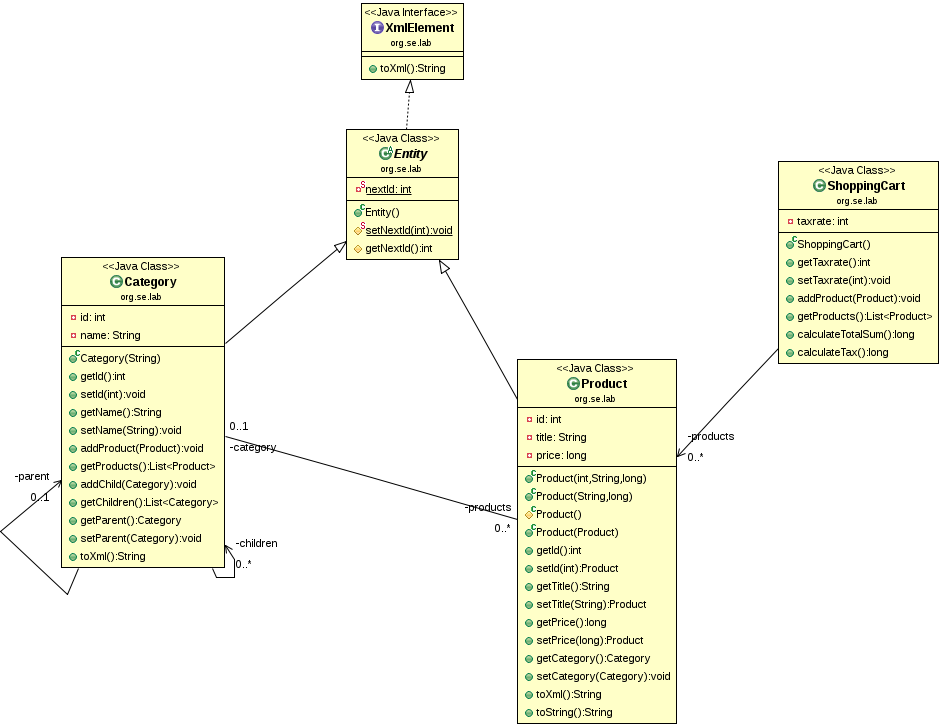
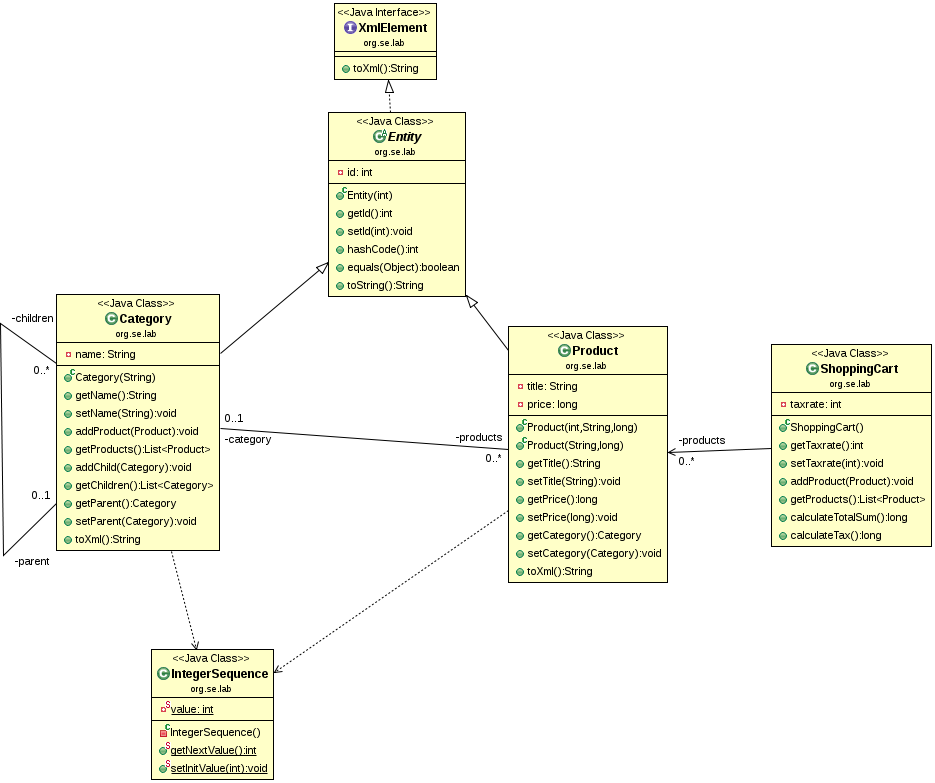
Changed test cases and the class diagram to be in sync with the model solution.

diff --git a/software-design/1_UML/UML2Java-ShoppingCart-Exercise/src/test/java/org/se/lab/ProductTest.java b/software-design/1_UML/UML2Java-ShoppingCart-Exercise/src/test/java/org/se/lab/ProductTest.java
@@ -5,8 +5,6 @@ import static org.junit.Assert.assertEquals;
 
 import org.junit.Before;
 import org.junit.Test;
-import org.se.lab.Entity;
-import org.se.lab.Product;
 
 public class ProductTest
 {
@@ -20,18 +18,19 @@ public class ProductTest
 	{
 		p = new Product(3,"Java Programming", 3550);
 
-		Entity.setNextId(1);
+		IntegerSequence.setInitValue(1);
 	}
 
+	
 	@Test
 	public void testProduct()
 	{
 		out.println("@Test testProduct");
 		String s = p.toString();
-		assertEquals("3,Java Programming,35.5", s);
+		assertEquals("<product id=\"3\" title=\"Java Programming\" price=\"35.5\"/>", s);
 	}
 
-	@Test(expected = NullPointerException.class)
+	@Test(expected = IllegalArgumentException.class)
 	public void testTitleNull()
 	{
 		new Product(3,null, 3550);
@@ -52,13 +51,6 @@ public class ProductTest
 
 		Product p2 = new Product("Programming C", 1790);
 		assertEquals(2, p2.getId());
-	}
-
-	@Test
-	public void testDefaultConstructor()
-	{
-		Product p = new Product();
-		p.setId(7).setTitle("").setPrice(1210);
 	}
 
 

diff --git a/software-design/1_UML/UML2Java-ShoppingCart-Exercise/src/test/java/org/se/lab/CategotyHierarchyTest.java b/software-design/1_UML/UML2Java-ShoppingCart-Exercise/src/test/java/org/se/lab/CategotyHierarchyTest.java
@@ -5,9 +5,6 @@ import static org.junit.Assert.assertEquals;
 
 import org.junit.Before;
 import org.junit.Test;
-import org.se.lab.Category;
-import org.se.lab.Entity;
-import org.se.lab.Product;
 
 public class CategotyHierarchyTest
 {
@@ -25,7 +22,7 @@ public class CategotyHierarchyTest
 	@Before
 	public void setUp()
 	{
-		Entity.setNextId(1);
+		IntegerSequence.setInitValue(1);
 		
 		book = new Category("Books");		
 		Category english = new Category("English Books");
